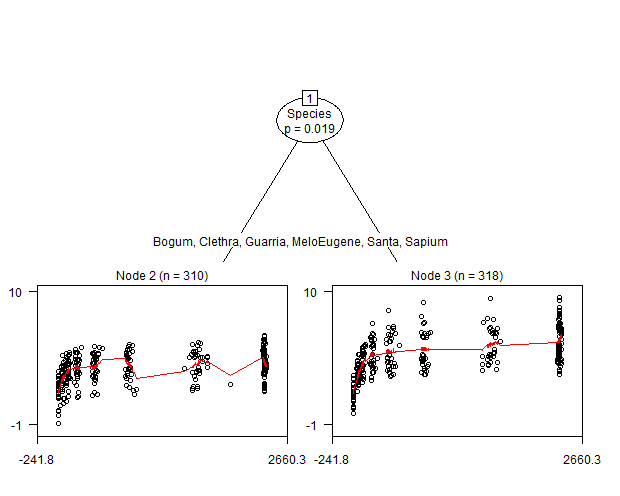
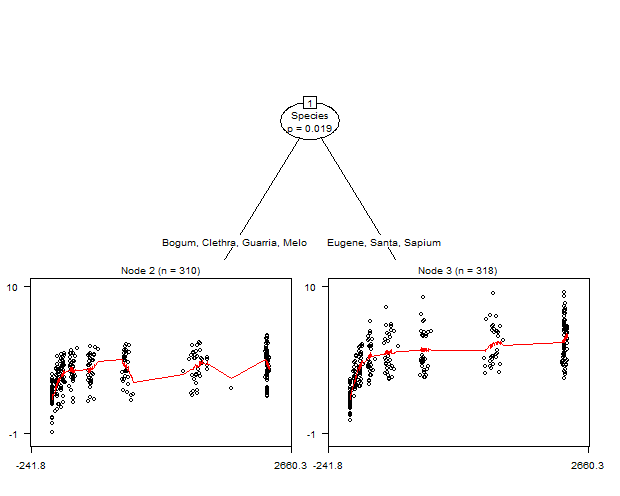
readme updates

diff --git a/README.md b/README.md
@@ -109,7 +109,7 @@ We can inspect the partition by plotting the tree (see `?plot.gamtree`
 for more info):
 
 ``` r
-plot(gt1, which = "tree", treeplot_ctrl = list(gp = gpar(cex = .6)))
+plot(gt1, which = "tree", treeplot_ctrl = list(gp = gpar(cex = .5)))
 ```
 
 ![](inst/README-figures/README-unnamed-chunk-9-1.png)
@@ -262,7 +262,7 @@ We can plot the tree and the models fitted in each of the terminal
 nodes:
 
 ``` r
-plot(gt2, which = "tree", treeplot_ctrl = list(gp = gpar(cex = .6)))
+plot(gt2, which = "tree", treeplot_ctrl = list(gp = gpar(cex = .5)))
 ```
 
 ![](inst/README-figures/README-unnamed-chunk-14-1.png)
@@ -298,9 +298,9 @@ gam.check(gt2$gamm)
 #> indicate that k is too low, especially if edf is close to k'.
 #> 
 #>                  k'   edf k-index p-value  
-#> s(PAR):.tree2  9.00  8.14    0.92   0.025 *
-#> s(PAR):.tree4  9.00  6.53    0.92   0.035 *
-#> s(PAR):.tree5  9.00  8.52    0.92   0.020 *
+#> s(PAR):.tree2  9.00  8.14    0.92   0.020 *
+#> s(PAR):.tree4  9.00  6.53    0.92   0.040 *
+#> s(PAR):.tree5  9.00  8.52    0.92   0.035 *
 #> s(cluster_id) 21.00  5.86      NA      NA  
 #> ---
 #> Signif. codes:  0 '***' 0.001 '**' 0.01 '*' 0.05 '.' 0.1 ' ' 1
@@ -318,7 +318,7 @@ of `k`, to see if that increases the reported `edf` substantially:
 ``` r
 gt3 <- gamtree(Pn ~ s(PAR, k=18L) | noise + s(cluster_id, bs = "re") | Species, 
                data = eco, cluster = eco$specimen)
-plot(gt3, which = "tree", treeplot_ctrl = list(gp = gpar(cex = .6)))
+plot(gt3, which = "tree", treeplot_ctrl = list(gp = gpar(cex = .5)))
 ```
 
 ![](inst/README-figures/README-unnamed-chunk-16-1.png)
@@ -345,7 +345,7 @@ gam.check(gt3$gamm)
 #> indicate that k is too low, especially if edf is close to k'.
 #> 
 #>                  k'   edf k-index p-value  
-#> s(PAR):.tree2 17.00  9.42    0.93   0.045 *
+#> s(PAR):.tree2 17.00  9.42    0.93   0.020 *
 #> s(PAR):.tree3 17.00  8.11    0.93   0.045 *
 #> s(cluster_id) 21.00  7.51      NA      NA  
 #> ---
@@ -362,7 +362,7 @@ lines, and perhaps a different tree:
 ``` r
 gt4 <- gamtree(Pn ~ s(PAR, k=5L) | noise + s(cluster_id, bs="re") | Species,
                data = eco, cluster = eco$specimen, verbose = FALSE)
-plot(gt4, which = "tree", treeplot_ctrl = list(gp = gpar(cex = .6)))
+plot(gt4, which = "tree", treeplot_ctrl = list(gp = gpar(cex = .5)))
 ```
 
 ![](inst/README-figures/README-unnamed-chunk-18-1.png)
@@ -474,7 +474,7 @@ here, to generate a `list` of control arguments for function `mob()`.
 We inspect the result:
 
 ``` r
-plot(gt5, which = "tree", treeplot_ctrl = list(gp = gpar(cex = .6)))
+plot(gt5, which = "tree", treeplot_ctrl = list(gp = gpar(cex = .5)))
 ```
 
 ![](inst/README-figures/README-unnamed-chunk-24-1.png)
